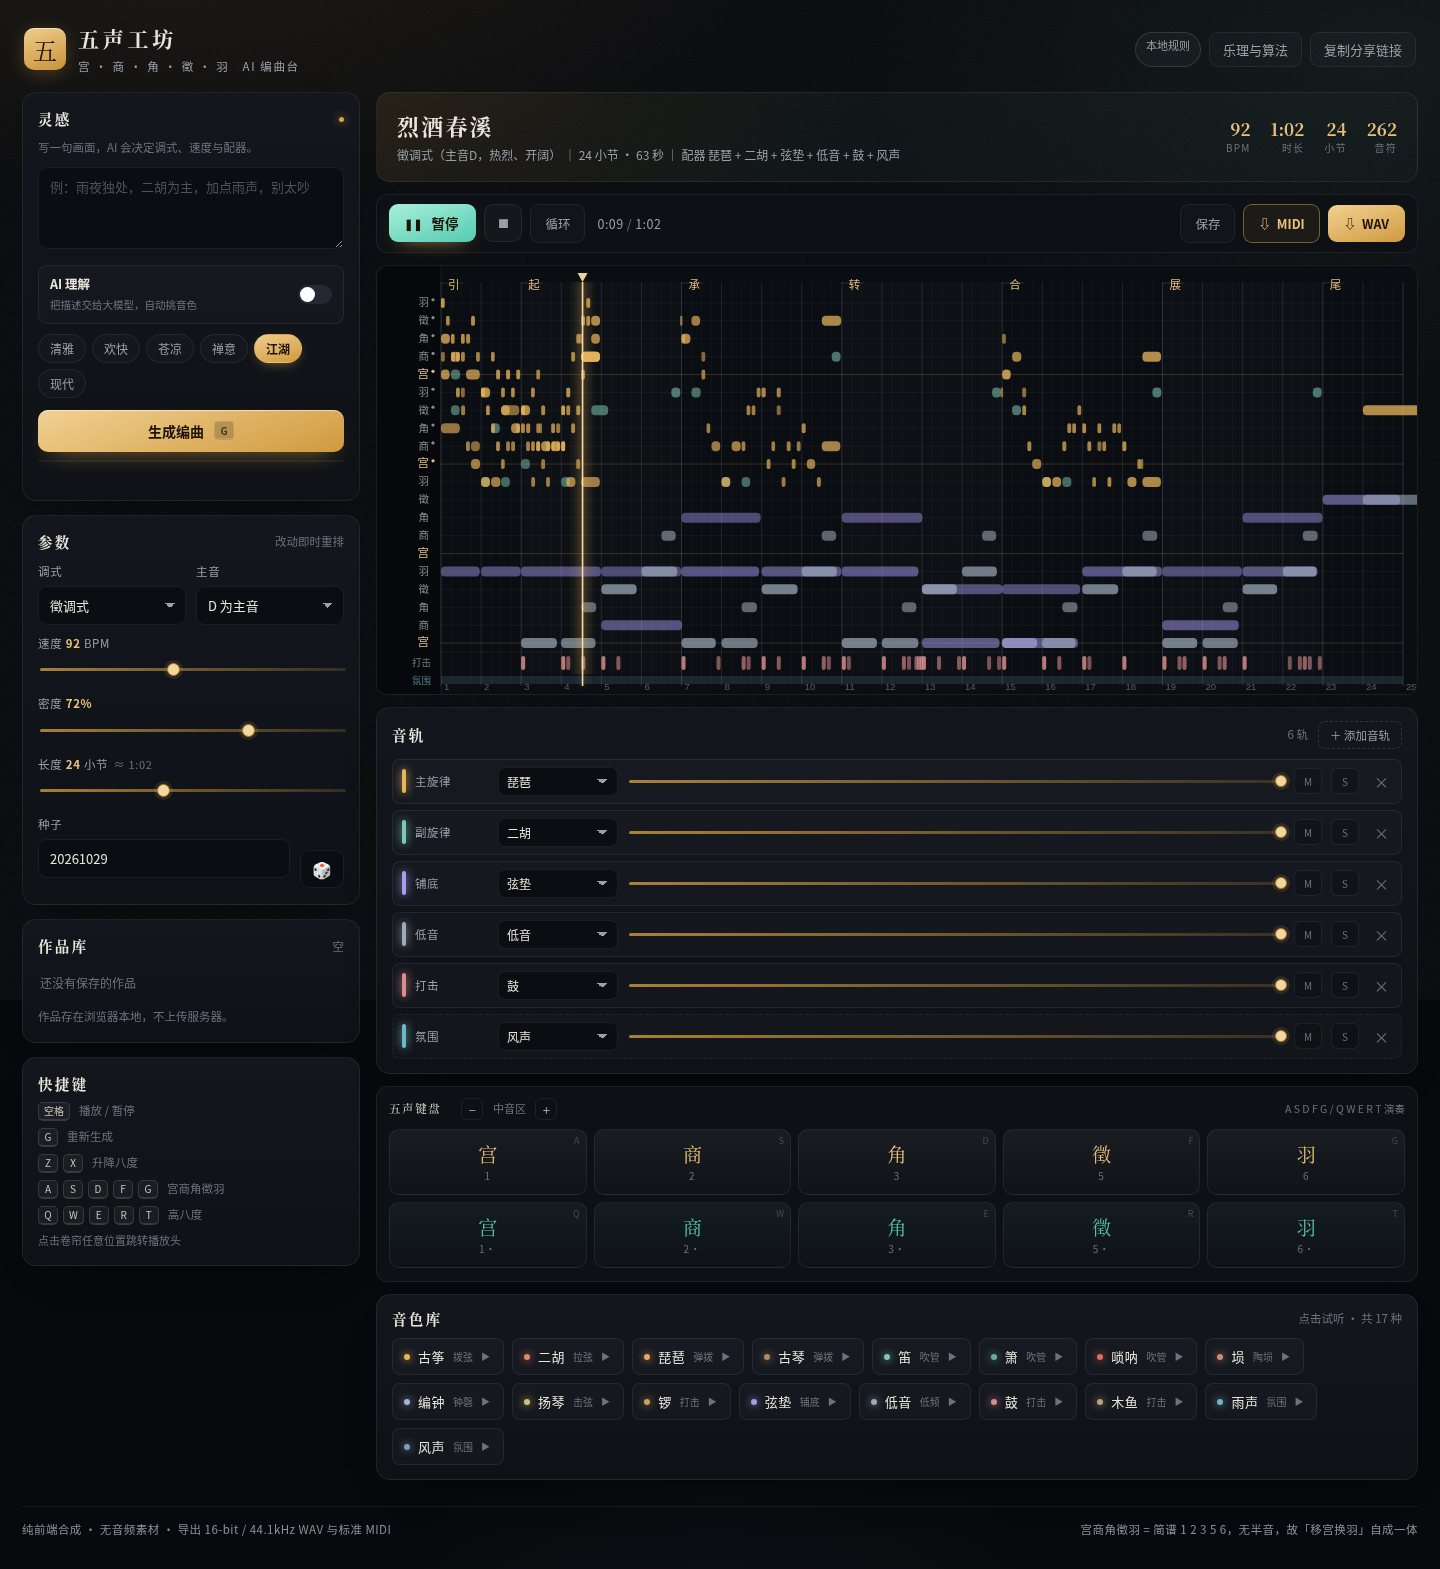
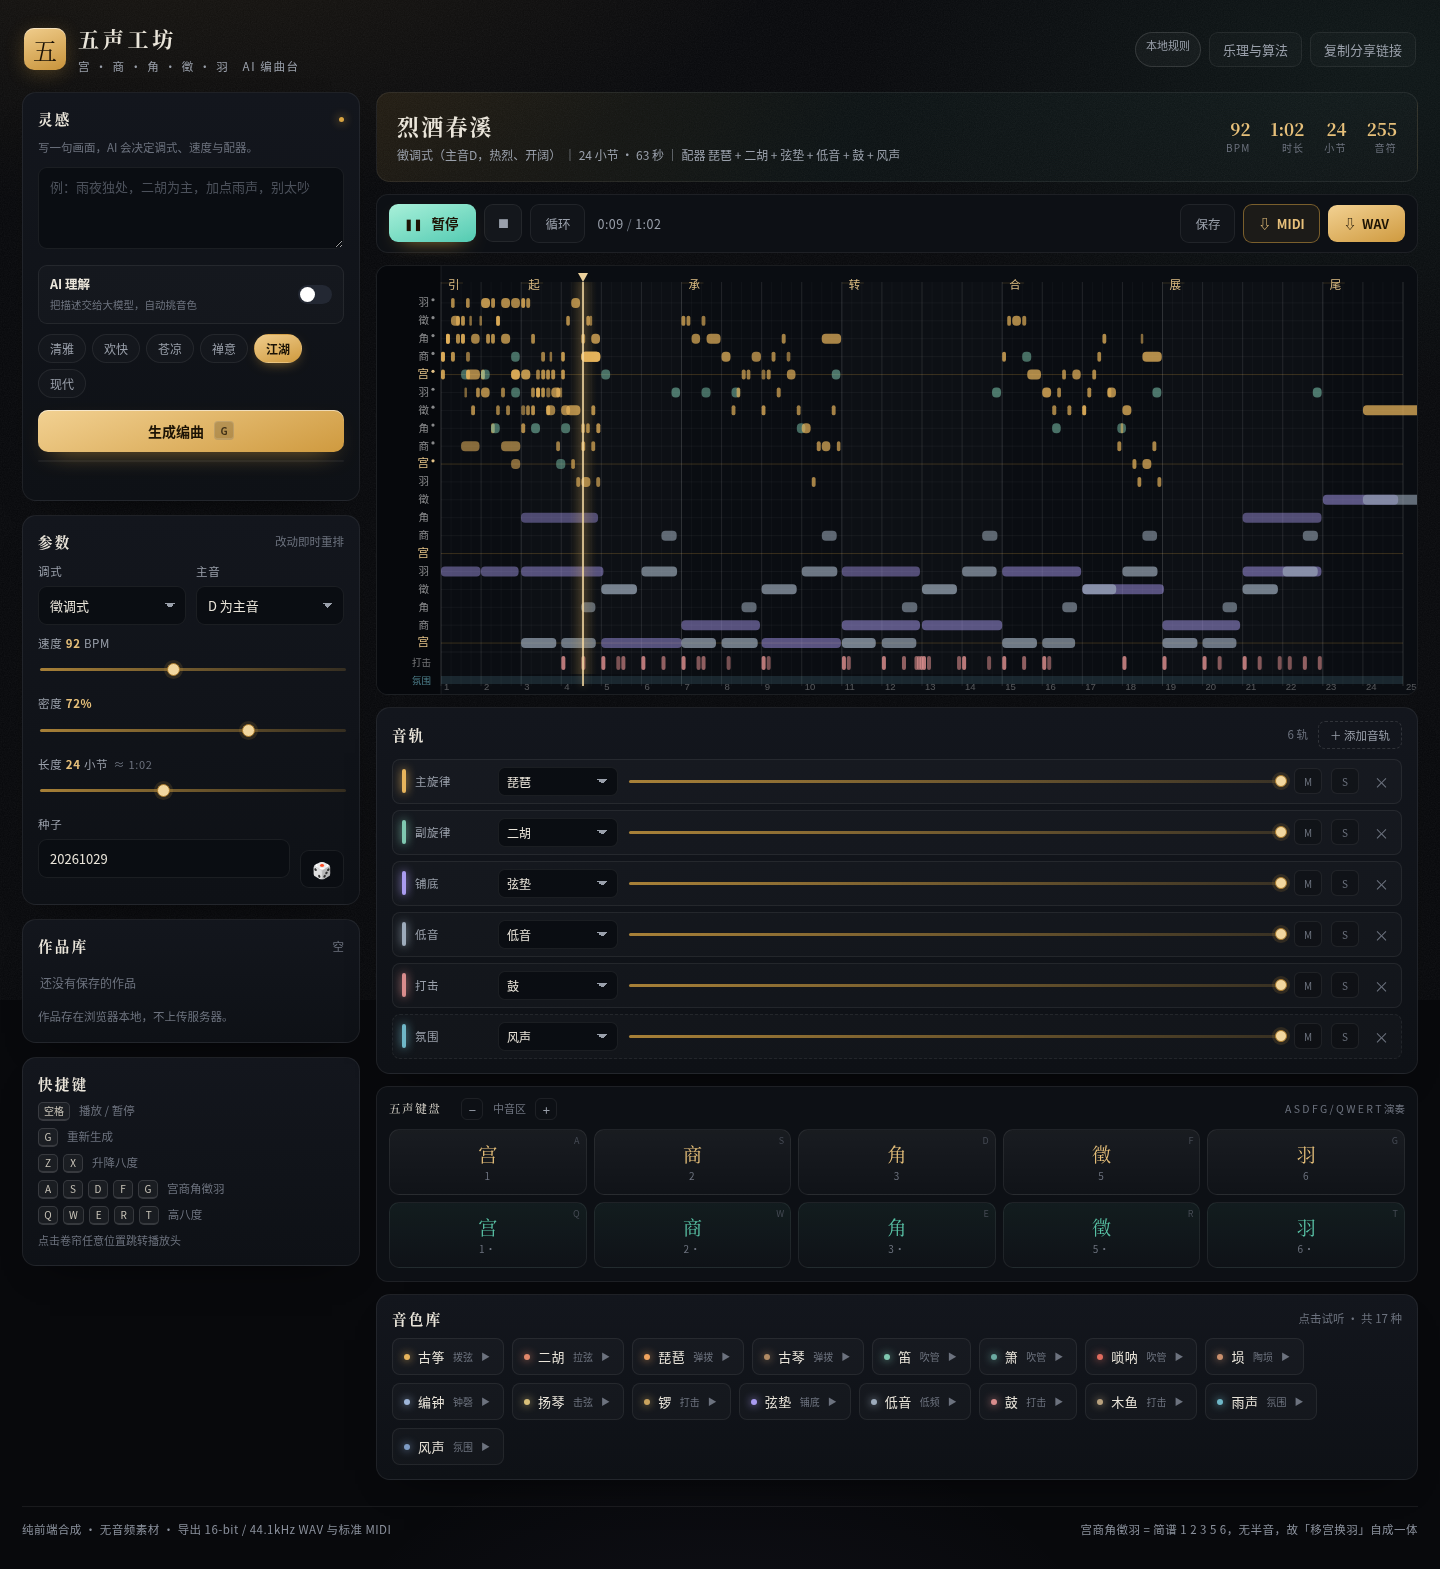
fix: 段落名不再重复（按句数均分小节），音量条恢复整行宽度

diff --git a/public/js/composer.js b/public/js/composer.js
@@ -69,16 +69,15 @@ export function normalizeTracks(list, mood) {
 function buildSections(bars) {
   const intro = bars >= 14 ? 2 : 1;
   const outro = bars >= 12 ? 2 : 1;
-  let body = Math.max(2, bars - intro - outro);
+  const body = Math.max(2, bars - intro - outro);
+  // 最多 8 个乐句，多余的节数平摊到各句，避免名字重复
+  const count = Math.min(8, Math.max(1, Math.ceil(body / 4)));
+  const names = ['起', '承', '转', '合', '展', '收', '变', '终'];
+  const base = Math.floor(body / count);
+  const extra = body - base * count;
   const secs = [{ name: '引', bars: intro }];
-  const names = ['起', '承', '转', '合', '展', '收'];
-  let i = 0;
-  while (body > 0) {
-    let b = Math.min(4, body);
-    // 避免留下 1 小节的尾巴
-    if (body - b === 1 && b > 2) b -= 1;
-    secs.push({ name: names[Math.min(i, names.length - 1)], bars: b });
-    body -= b; i++;
+  for (let i = 0; i < count; i++) {
+    secs.push({ name: names[i], bars: base + (i < extra ? 1 : 0) });
   }
   secs.push({ name: '尾', bars: outro });
   return secs;

diff --git a/public/css/style.css b/public/css/style.css
@@ -283,7 +283,7 @@ kbd {
 .mix-row .cbar { width: 4px; height: 24px; border-radius: 3px; background: var(--c); box-shadow: 0 0 10px var(--c); }
 .mix-row .rname { font-size: 11.5px; color: var(--muted); letter-spacing: .04em; }
 .mix-row select { padding: 5px 22px 5px 8px; font-size: 12px; border-radius: 7px; }
-.mix-row input[type=range] { height: 18px; max-width: 340px; }
+.mix-row input[type=range] { height: 18px; }
 .mix-row input[type=range]::-webkit-slider-thumb { width: 12px; height: 12px; margin-top: -4.5px; }
 .mix-row input[type=range]::-webkit-slider-runnable-track { height: 3px; }
 .mix-row .mbtn {
